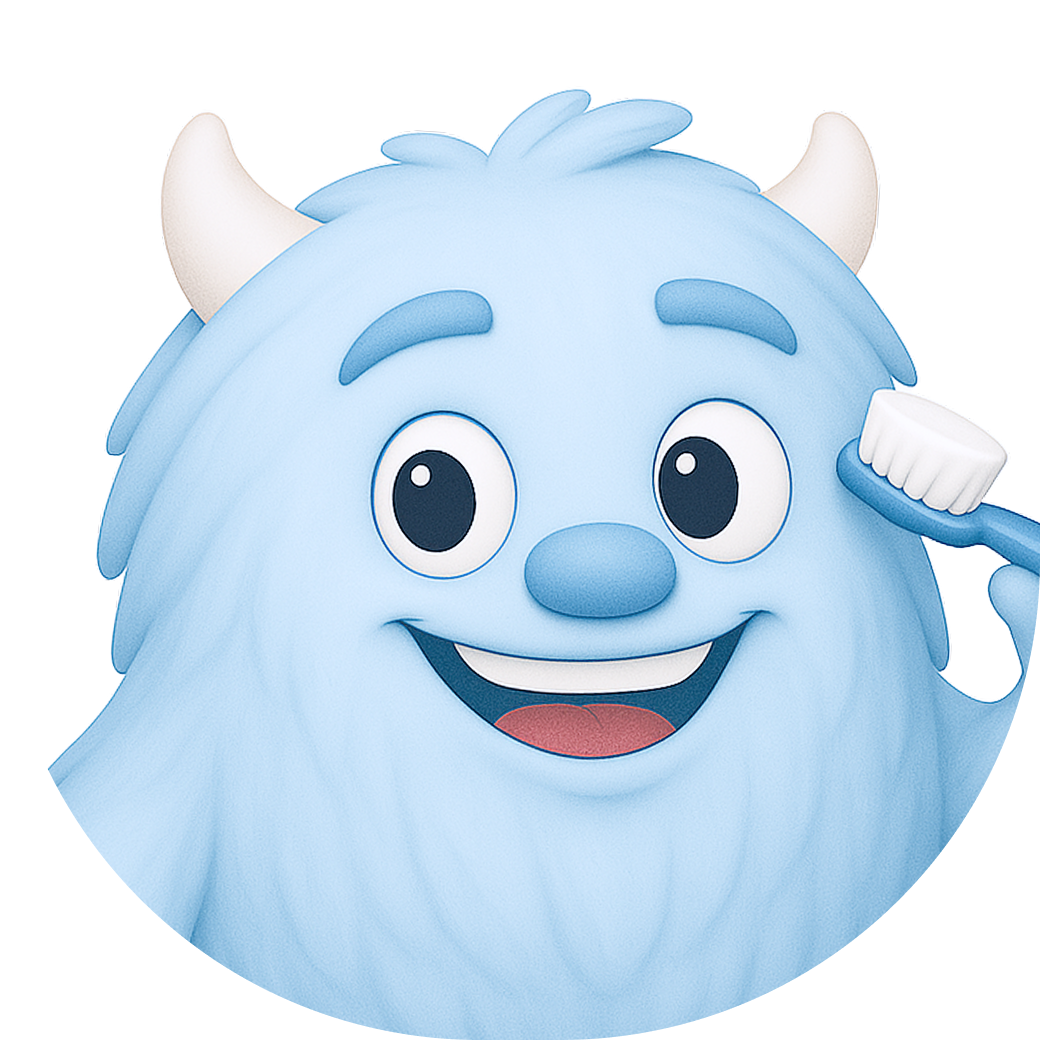
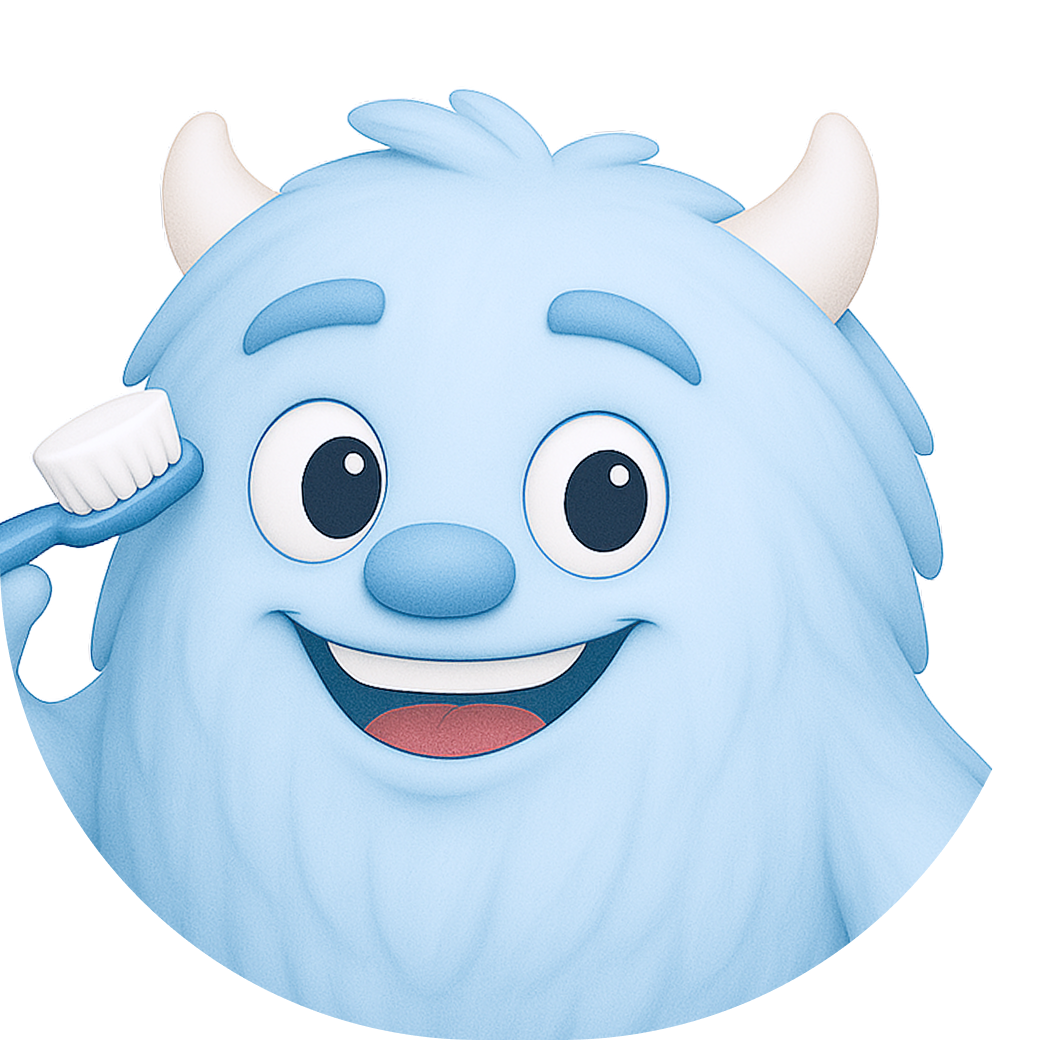
feat(mascot): Refactor playful theme and update combinations

Changed region(s): [[0.0, 0.0615, 1.0, 0.9231], [0.8308, 0.2154, 0.8615, 0.2462]]

diff --git a/components/ui/Mascot.tsx b/components/ui/Mascot.tsx
@@ -87,6 +87,26 @@ export default function Mascot({
       case 'nubo-cool-3-pp': // New for stage 3 PP (nubo-cool-3-pp.png)
         return require('../../assets/mascot/nubo-cool-3-pp.png');
 
+      // --- Playful Category ---
+      case 'nubo-playful-1':
+        return require('../../assets/mascot/nubo-playful-1.png');
+      case 'nubo-playful-2':
+        return require('../../assets/mascot/nubo-playful-2.png');
+      case 'nubo-playful-3':
+        return require('../../assets/mascot/nubo-playful-3.png');
+      case 'nubo-playful-4':
+        return require('../../assets/mascot/nubo-playful-4.png');
+      case 'nubo-playful-5':
+        return require('../../assets/mascot/nubo-playful-5.png');
+      case 'nubo-playful-1-pp':
+        return require('../../assets/mascot/nubo-playful-1-pp.png');
+      case 'nubo-playful-2-pp':
+        return require('../../assets/mascot/nubo-playful-2-pp.png');
+      case 'nubo-playful-3-pp':
+        return require('../../assets/mascot/nubo-playful-3-pp.png');
+      case 'nubo-playful-4-pp':
+        return require('../../assets/mascot/nubo-playful-4-pp.png');
+        
       // --- Daily Routine Category ---
       case 'nubo-daily-brush': // For nubo-brushing-1.png
         return require('../../assets/mascot/nubo-brushing-1.png');

diff --git a/constants/mascotGreetingKeys.ts b/constants/mascotGreetingKeys.ts
@@ -46,5 +46,28 @@ export const wiseGreetingKeys: string[] = [
   "mascotGreetings.wise.riseEveryDay"
 ];
 
+export const playfulGreetingKeys: string[] = [
+  "mascotGreetings.playful.letThePartyBegin",
+  "mascotGreetings.playful.dontLeaveMeHanging",
+  "mascotGreetings.playful.missionSparkle",
+  "mascotGreetings.playful.teethMissMe",
+  "mascotGreetings.playful.noPlaqueParty",
+  "mascotGreetings.playful.squadGoals",
+  "mascotGreetings.playful.toothFairtyProud",
+  "mascotGreetings.playful.shinyAttack",
+  "mascotGreetings.playful.plaqueWho",
+  "mascotGreetings.playful.timeToShine",
+  "mascotGreetings.playful.dailySmileQuest",
+  "mascotGreetings.playful.brushingRemix",
+  "mascotGreetings.playful.smileRecipe",
+  "mascotGreetings.playful.sparkleGame",
+  "mascotGreetings.playful.streakDance",
+  "mascotGreetings.playful.zeroBrushDrama",
+  "mascotGreetings.playful.partyStarter",
+  "mascotGreetings.playful.shineChampion",
+  "mascotGreetings.playful.toothbrushHype",
+  "mascotGreetings.playful.tinyMovesBigSmile"
+];
+
 // You can add other themed greeting key arrays here later, e.g.:
 // export const friendlyGreetingKeys: string[] = [ ... ]; 

diff --git a/constants/mascotThemes.ts b/constants/mascotThemes.ts
@@ -1,5 +1,5 @@
 import type { DynamicMascotTheme, MascotPositioning, PpMascotVariant, NonPpMascotVariant } from '../types/mascot';
-import { coolGreetingKeys, wiseGreetingKeys } from './mascotGreetingKeys';
+import { coolGreetingKeys, wiseGreetingKeys, playfulGreetingKeys } from './mascotGreetingKeys';
 // Potentially import getMascotPositioning if needed for more dynamic positioning within a theme, though not used in this example.
 // import { getMascotPositioning } from '../utils/mascotUtils';
 
@@ -35,6 +35,24 @@ export const dynamicMascotThemes: DynamicMascotTheme[] = [
     ],
     greetingTextKeys: wiseGreetingKeys,
     selectionWeight: 0.3,
+  },
+  {
+    themeId: 'playful',
+    profilePictureVariants: [
+      'nubo-playful-1-pp',
+      'nubo-playful-2-pp',
+      'nubo-playful-3-pp',
+      'nubo-playful-4-pp',
+    ],
+    poseVariants: [
+      'nubo-playful-1',
+      'nubo-playful-2',
+      'nubo-playful-3',
+      'nubo-playful-4',
+      'nubo-playful-5',
+    ],
+    greetingTextKeys: playfulGreetingKeys,
+    selectionWeight: 0.5,
   },
   // Example of another theme (you can add more later)
   // {

diff --git a/src/types/mascot.ts b/src/types/mascot.ts
@@ -18,6 +18,15 @@ export type MascotVariant =
   | 'nubo-wise-1-pp'
   | 'nubo-wise-2-pp'
   | 'nubo-wise-3-pp'
+  | 'nubo-playful-1'
+  | 'nubo-playful-2'
+  | 'nubo-playful-3'
+  | 'nubo-playful-4'
+  | 'nubo-playful-5'
+  | 'nubo-playful-1-pp'
+  | 'nubo-playful-2-pp'
+  | 'nubo-playful-3-pp'
+  | 'nubo-playful-4-pp'
   | 'cool-pp'
   | 'cool-pose'
   | 'friendly-pp'
@@ -39,7 +48,11 @@ export type PpMascotVariant =
   | 'nubo-brushing-1-pp'
   | 'nubo-cool-3-pp'
   | 'nubo-cool-1-pp'
-  | 'nubo-cool-2-pp';
+  | 'nubo-cool-2-pp'
+  | 'nubo-playful-1-pp'
+  | 'nubo-playful-2-pp'
+  | 'nubo-playful-3-pp'
+  | 'nubo-playful-4-pp';
 
 // Define your Non-PP (Expanded/Other) Mascot Variants here
 export type NonPpMascotVariant = 
@@ -47,6 +60,11 @@ export type NonPpMascotVariant =
   | 'nubo-wise-2'
   | 'nubo-wise-3'
   | 'nubo-wise-4'
+  | 'nubo-playful-1'
+  | 'nubo-playful-2'
+  | 'nubo-playful-3'
+  | 'nubo-playful-4'
+  | 'nubo-playful-5'
   | 'nubo-welcoming-1'
   | 'nubo-welcoming-2'
   | 'nubo-welcoming-wave'
